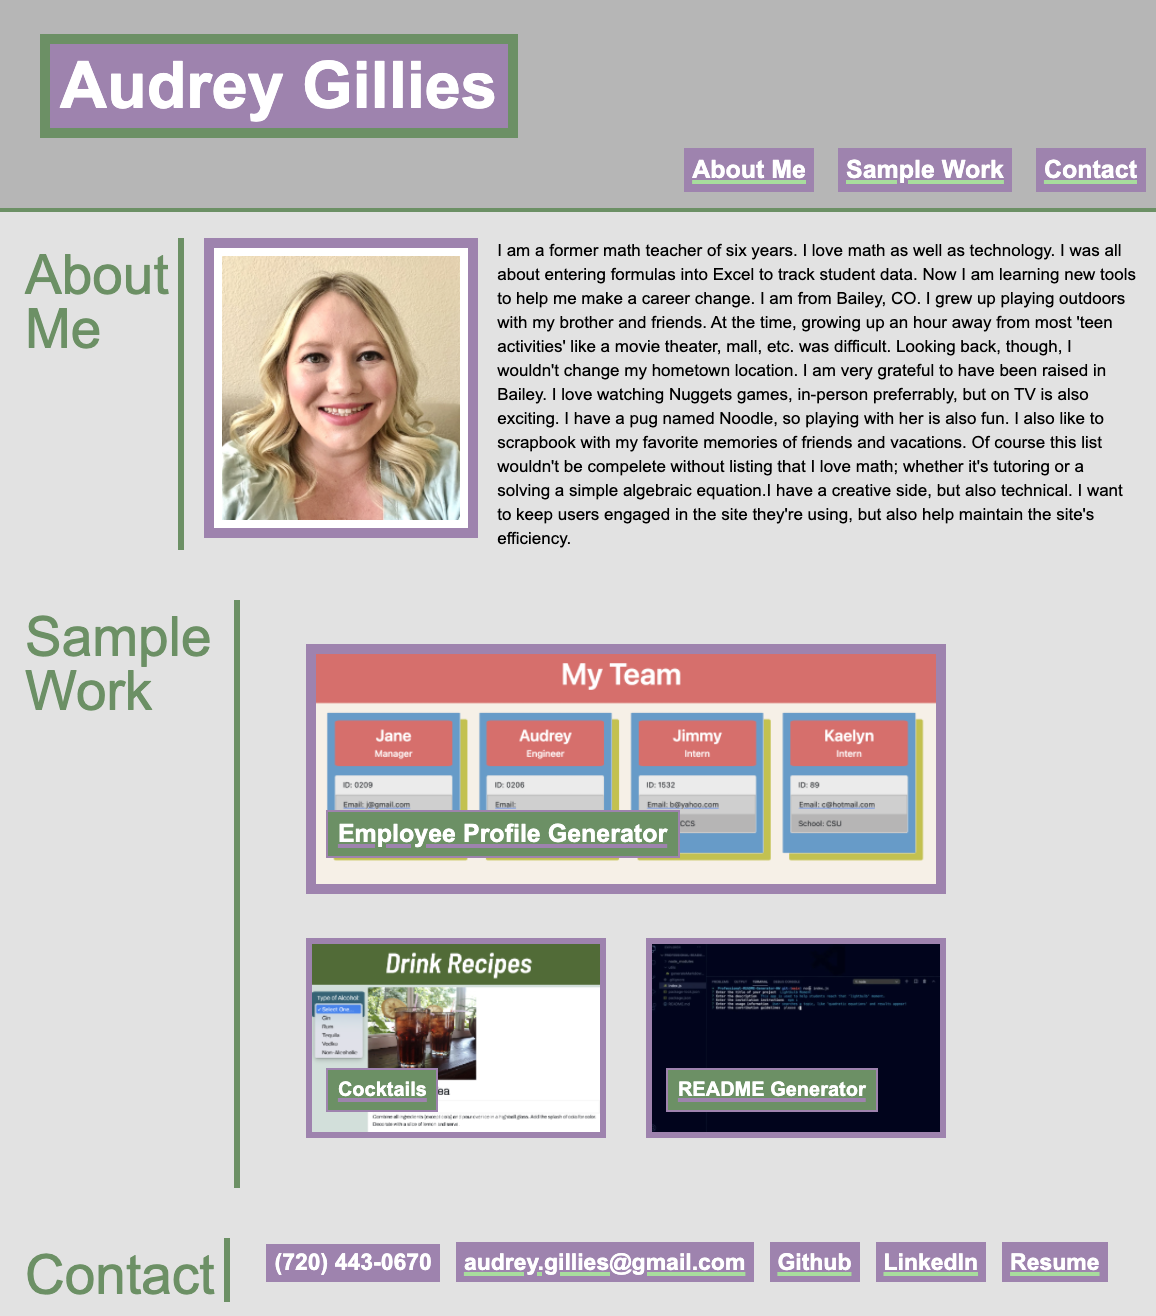
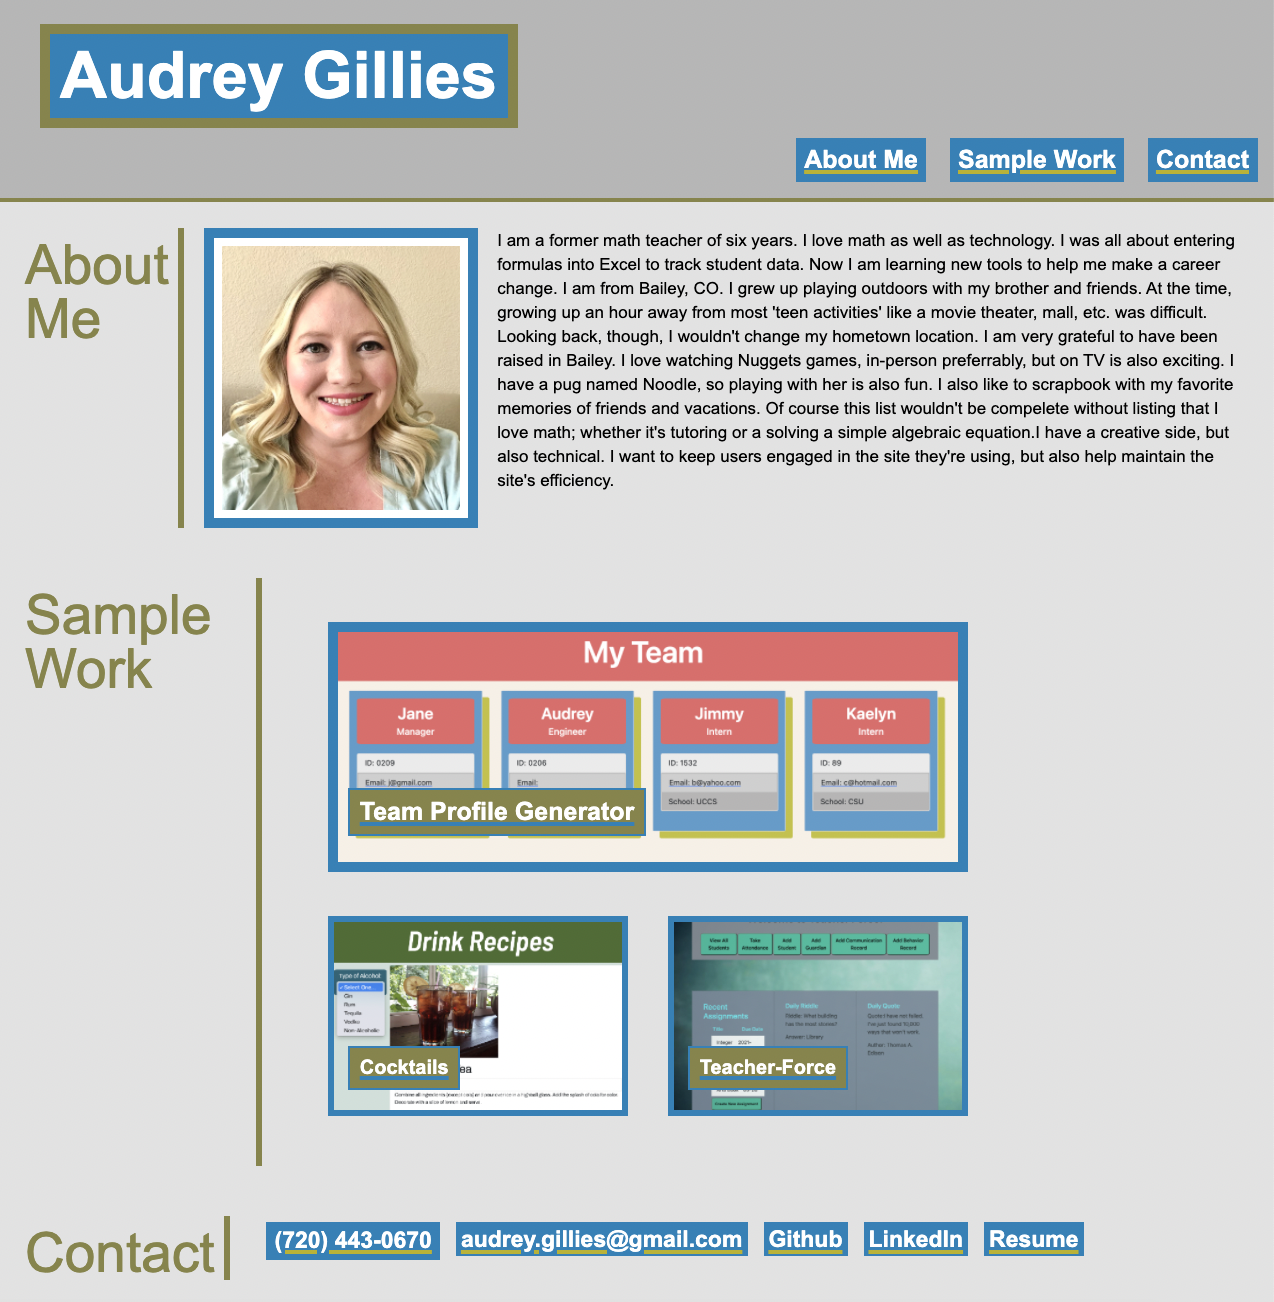
updated readmen with current pic of site

diff --git a/assets/css/style.css b/assets/css/style.css
@@ -1,4 +1,4 @@
-/* Variables declared in case I want to change the color scheme -- use split complementary. */
+/* Variables declared in case I want to change the color scheme -- use compound complementary. */
 :root {
   --white: rgb(255, 255, 255);
   --black: rgb(0, 0, 0);
